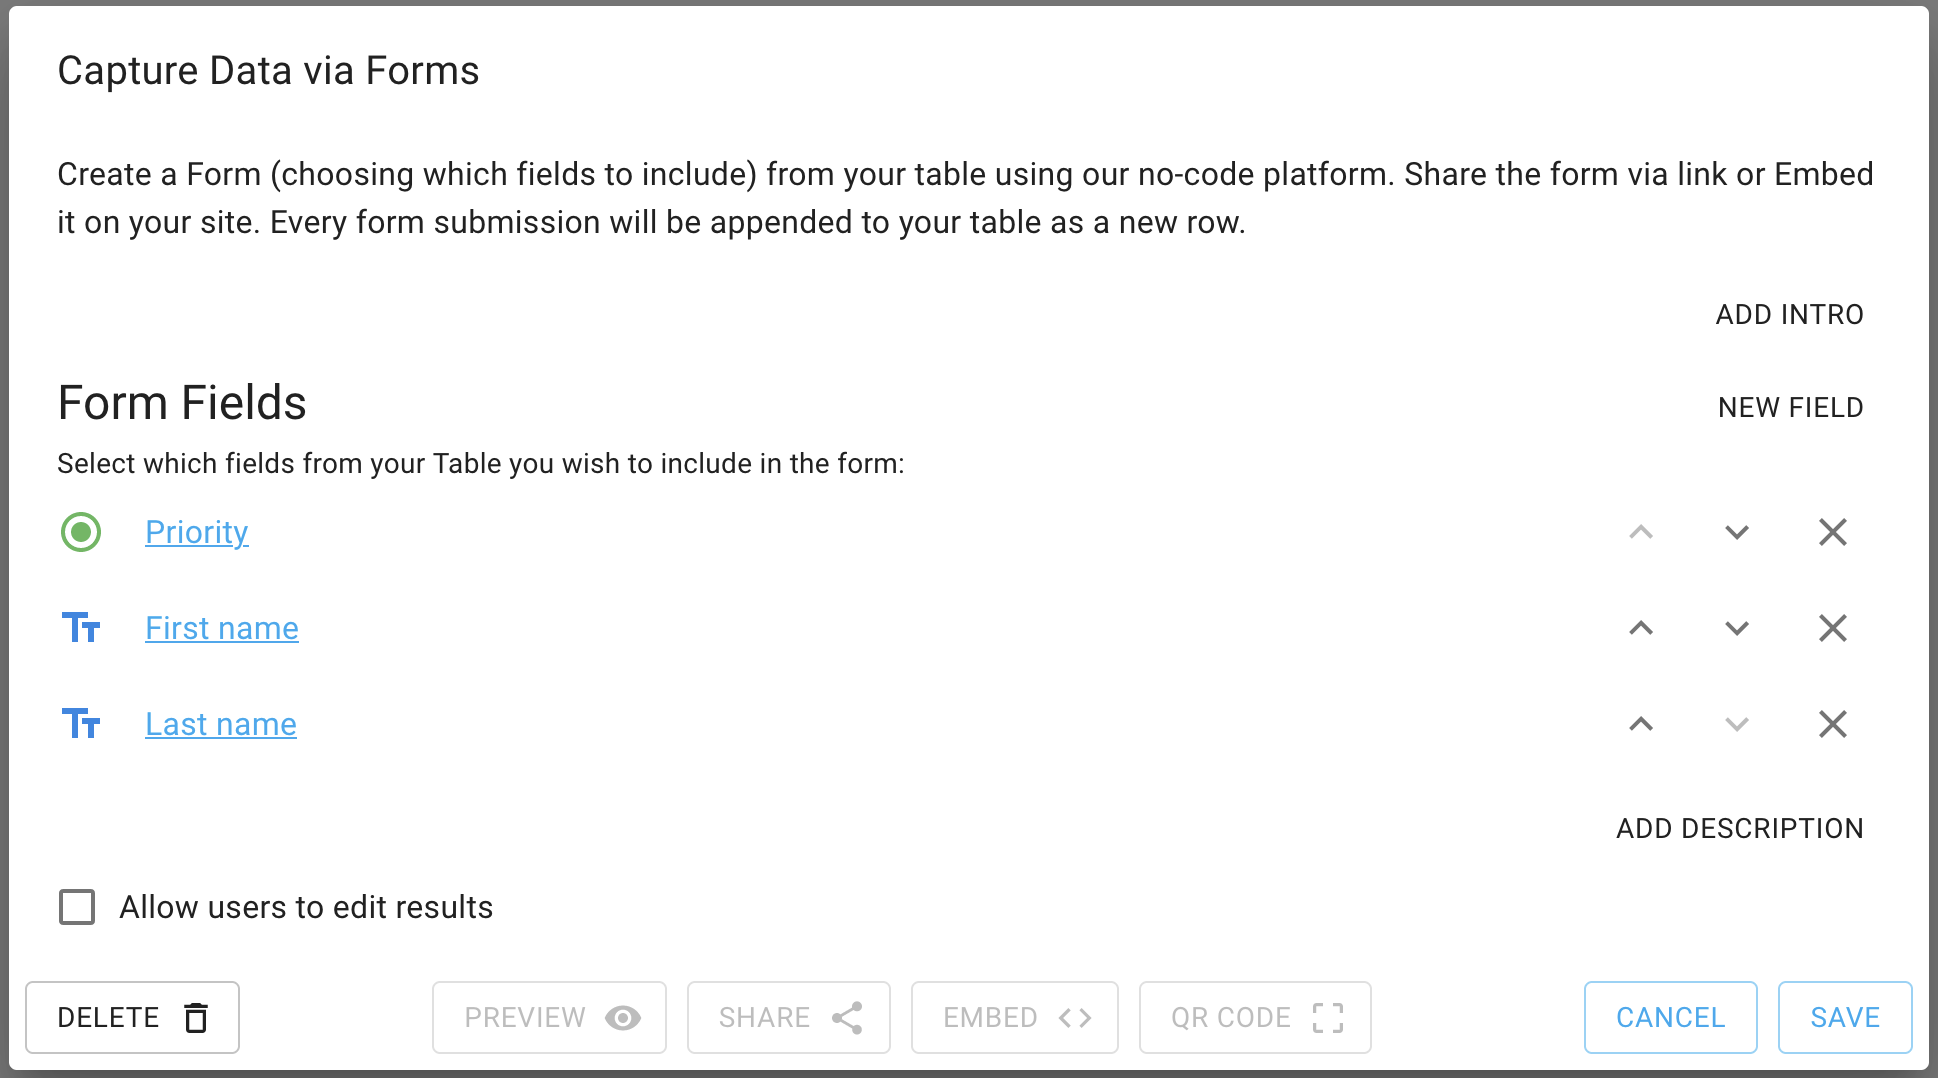
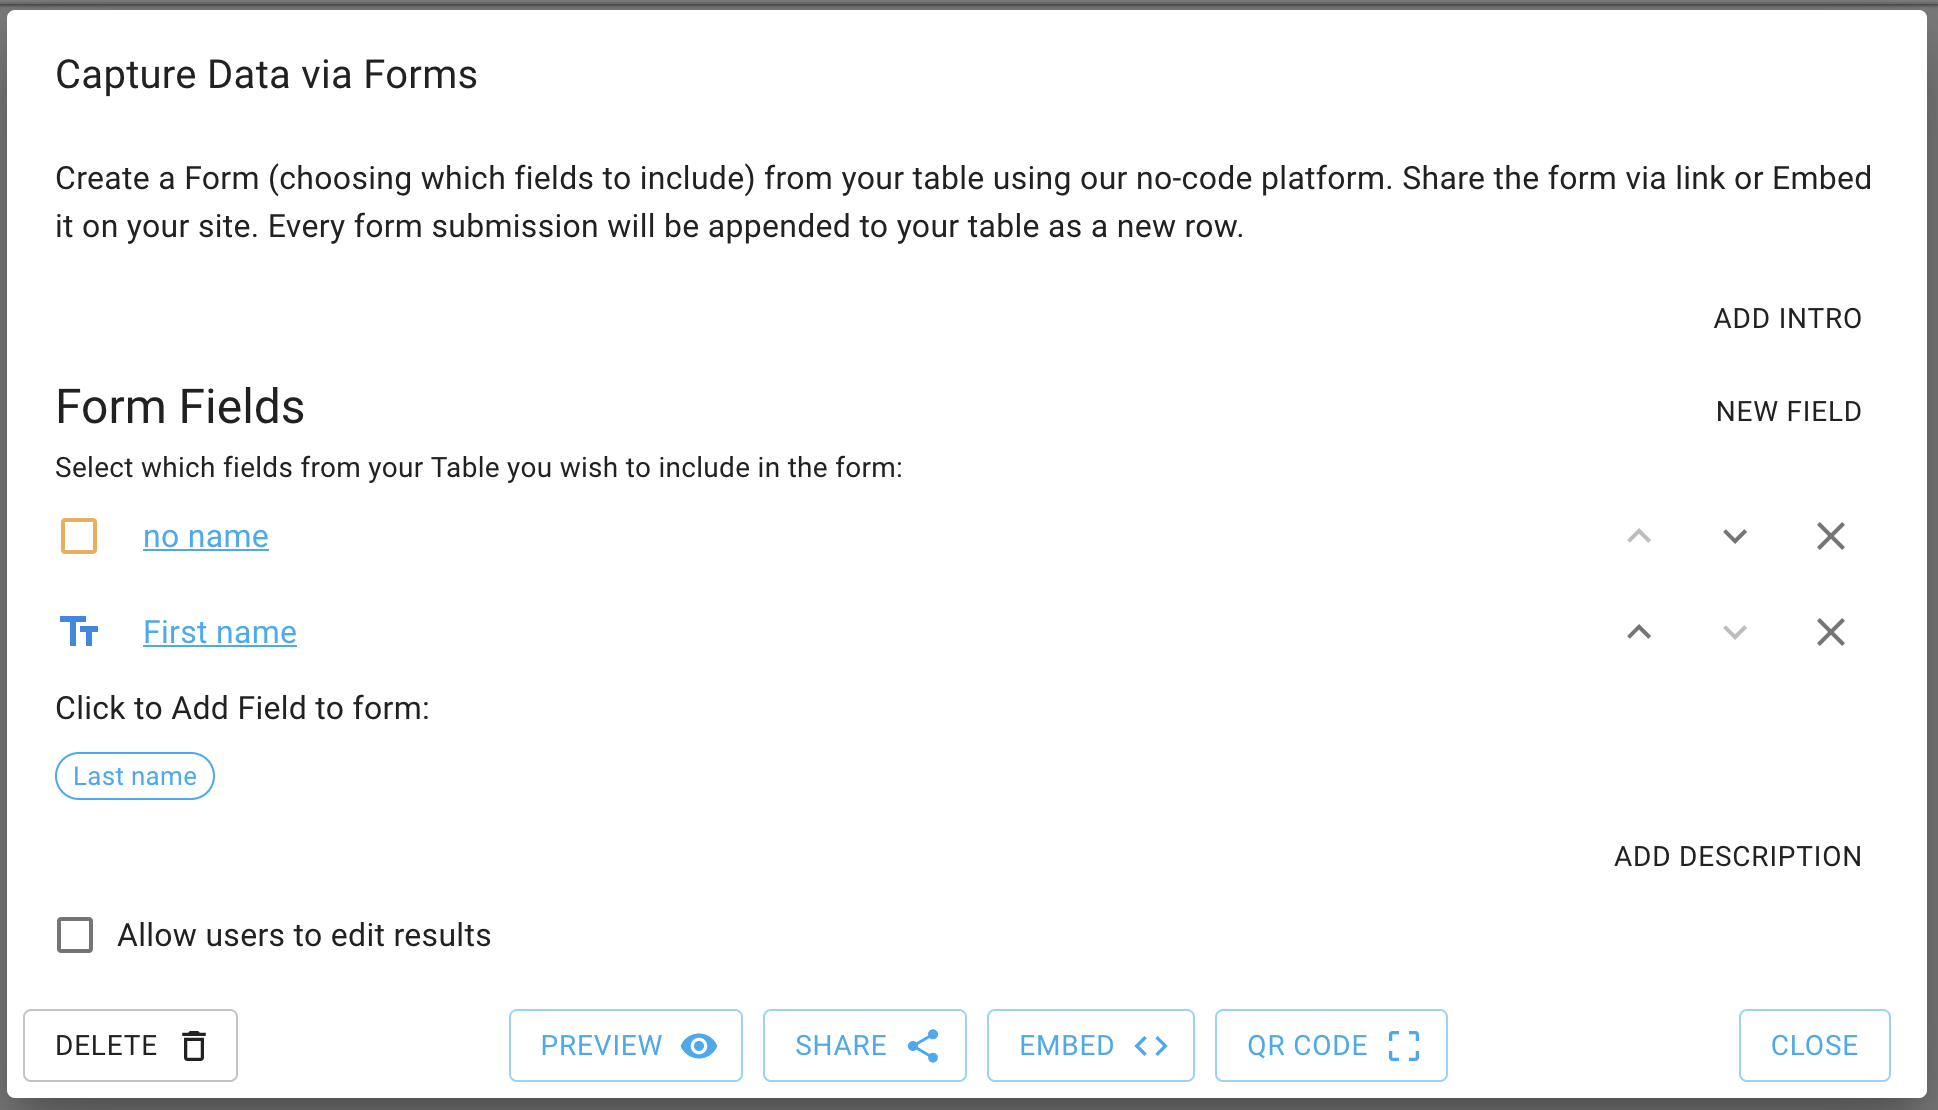
finished form config

diff --git a/docs/form-to-task.md b/docs/form-to-task.md
@@ -83,7 +83,46 @@ The Form Configuration dialog allows you to customize the form to your needs:
 ![Forms Configuration](/assets/images/form-to-task/forms-configuration-full.png)
 
 ### Form Fields
-The main part of the form are of course the fields. You can add to the checklist as many fields as you need. You then choose which ones are to be used in the form. The rest will be hidden from the responders and you can use them on the checklist itself (both Table and List views). You can choose from the [available field types ↗](/checklists/task-types/ "Form Field Types"){:target="\_blank}.
+The main part of the form are of course the fields. You can add to the checklist as many fields as you need. You then choose which ones are to be used in the form. The rest will be hidden from the responders and you can use them on the checklist itself (both Table and List views). You can choose from the available[Checklist field types ↗](/checklists/task-types/ "Form Field Types"){:target="\_blank}.
+
+Note: File field type is currently in beta and is not available for all users. [Contact us ↗](https://checklist.com/contact){:target="\_blank} if you would like to try it out.
+
+Clicking on the X to the right of a field will remove it from the form (and will be shown below the fields list). To bring it back to the form, click on the field name and it will be added. Use the Up and Down arrows to change the order of the fields in the form.
+
+If you wish to Add a completely new field to the checklist (and the form), click on the "New Field" button. This will open the Add Field dialog where you can choose the field type and name. The new field will be added to the form (and checklist).
+
+### Intro & Description
+The Intro and Description fields are optional. You can use them to provide additional information to the responders. The Intro field is displayed at the top of the form, while the Description field is displayed at the bottom. Click on their button to show/ hide them.
+
+### Editable Link
+If you wish to allow responders to edit their responses, you can enable the Editable Link. This will, once a form is first submitted, generate a link that can used by visitors to view and update the form submission at a later time.
+
+Changes made to the form submission will be immediately reflected in the checklist task.
+
+This is a very powerful feauture allowing you to collect information from your customers, leads, or users, and then allow them to update it at a later time. For example, you can use it to collect real estate documentation in relation to a sales transaction.
+
+### Delete 
+To delete the form, click on the Delete button. Note that responses already collected will remain in the checklist.
+
+### Preview
+Click on the Preview button to view the form just as your responders will see it. This is a great way to test the form before sharing it with your customers, leads, or users.
+
+### Share
+To share your form via a link, click on the Share button. This will open the Share dialog:
+
+![Forms Share](/assets/images/form-to-task/forms-share.png)
+
+Click on the Copy button to copy the link to your clipboard. 
+
+### Embed
+To embed the form on your website, click on the Embed button. This will open the Embed dialog:
+
+![Forms Embed](/assets/images/form-to-task/forms-embed.png)
+
+Click on the Copy button to copy the embed code to your clipboard. Then, paste it into your website's HTML code.
+
+## QR Code
+You can also share your form via a QR code. To do so, click on the QR Code button. This will open the QR Code dialog. You can then download the QR code image and use it in your marketing material: stickers, flyers, posters, etc.
 
 ## Working with Submissions
 
